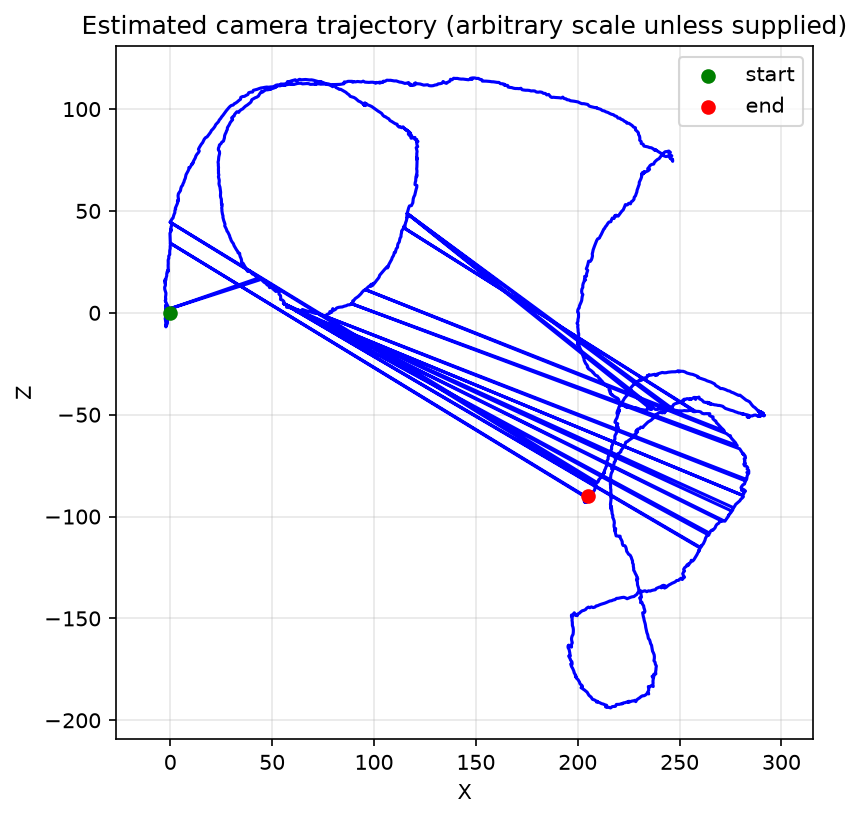
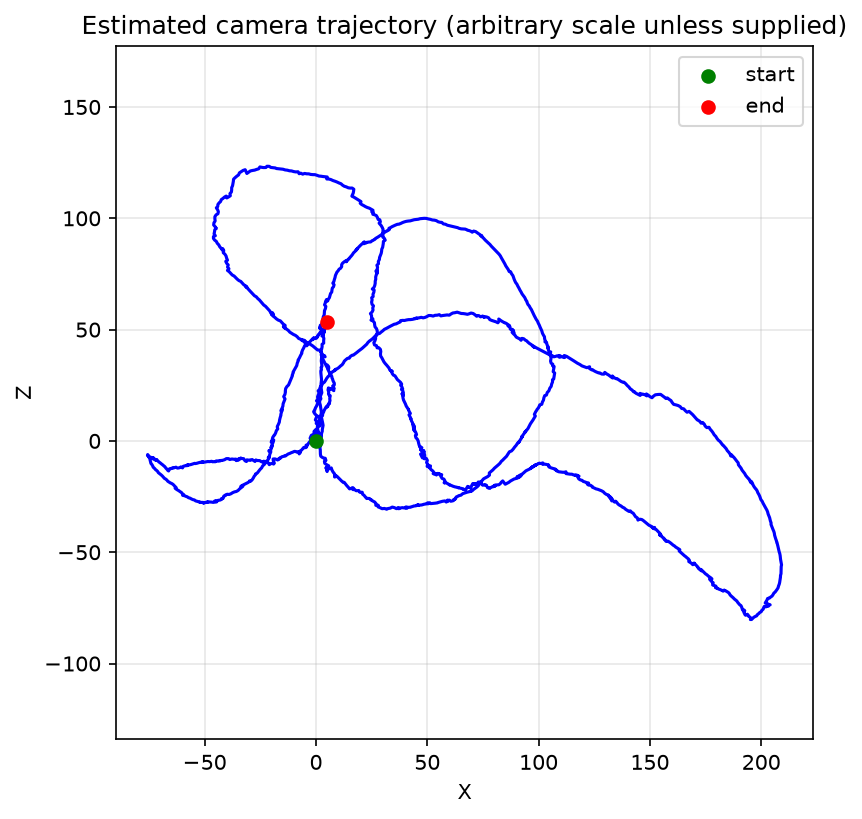
loop

diff --git a/orb-slam/loopClosure/loop_closure.py b/orb-slam/loopClosure/loop_closure.py
@@ -34,6 +34,8 @@ class LoopClosure:
         self.next_keyframe_id = 0
         self.trajectory = []
         self.keyframes = [] #stores all the keyframes in this list, to be looked out during loop closure checks
+        self.cur_R = None
+        self.cur_t = None
         self.model = model
     def _create_keyframe(self, frame_count, kp, feats, orb_kp, orb_des):
             # Keyframes keep descriptors on the CPU so large descriptor banks do
@@ -198,14 +200,16 @@ class LoopClosure:
                     self.K,
                     mask=mask
                 )
-                distance = np.linalg.norm(t)
+                tx = t.ravel()[0]
+                tz = t.ravel()[2]
+                distance = np.linalg.norm([tx, tz])
 
                 ratio = num_inliers / len(matches)
 
                 yaw_rad = np.arctan2(R[0, 2], R[2, 2])
                 yaw_deg = np.degrees(yaw_rad)
-                print(num_inliers, ratio)
-                if num_inliers > 150 and ratio > 0.5:
+                print(f"Distance: {distance}, Yaw: {yaw_deg}")
+                if num_inliers > 150 and ratio > 0.5 and abs(yaw_deg) < 10:
 
                     print(
                         f"LOOP FOUND! "
@@ -237,7 +241,7 @@ class LoopClosure:
     
             # Start from candidate, end at current frame, as those are the most relevant frames to correct. The rest of the trajectory is left unchanged.
     
-            start = max(0, candidate.frame_number)
+            start = max(0, current_frame_number - 500)#max(0, candidate.frame_number)
             end = min(current_frame_number, len(self.trajectory) - 1)
     
             # Check if the range is valid
@@ -356,7 +360,7 @@ class LoopClosure:
 
          # Create new keyframes and store them when the camera has moved or
         # rotated far enough from the previous keyframe.
-        if len(self.keyframes) > 50:
+        if len(self.keyframes) > 30:
             translation = np.linalg.norm(
                 self.cur_t - self.prev_keyframe.pose_T
             )
@@ -377,8 +381,8 @@ class LoopClosure:
                 if candidates:
                     result = self._process_candidates(candidates)
                     if result:
-                        #self._update_trajectory(result[0], frame_count)
-                        self.trajectory[-1] = self.trajectory[result[0].frame_number]
+                        self._update_trajectory(result[0], frame_count)
+                        #self.trajectory[-1] = self.trajectory[result[0].frame_number]
                         return self.trajectory
         else:
             print("Keyframe created: ", self.next_keyframe_id)

diff --git a/orb-slam/monocular_vo.py b/orb-slam/monocular_vo.py
@@ -315,6 +315,9 @@ class MonocularVO:
 
         if traj:
             self.trajectory = traj
+            self.cur_R = self.lc.cur_R
+            self.cur_t = self.lc.cur_t
+
 
         self.prev_gray, self.prev_kp, self.prev_des, self.prev_feats = gray, kp, des, feats
         return kp, matches
@@ -369,7 +372,7 @@ def save_matplotlib_plot(trajectory, out_path="trajectory.png"):
 # --------------------------------------------------------------------------- #
 CALIBRATION_PATH = "cameraCalibrationData/calibrationMetrics/kenshi.txt"
 CALIBRATION_VALS = []
-RES_SCALE = 1/2.0
+RES_SCALE = 1/1.5
 with open(CALIBRATION_PATH, "r") as file:
     for line in file:
         # Regex to find integers and floating-point numbers
